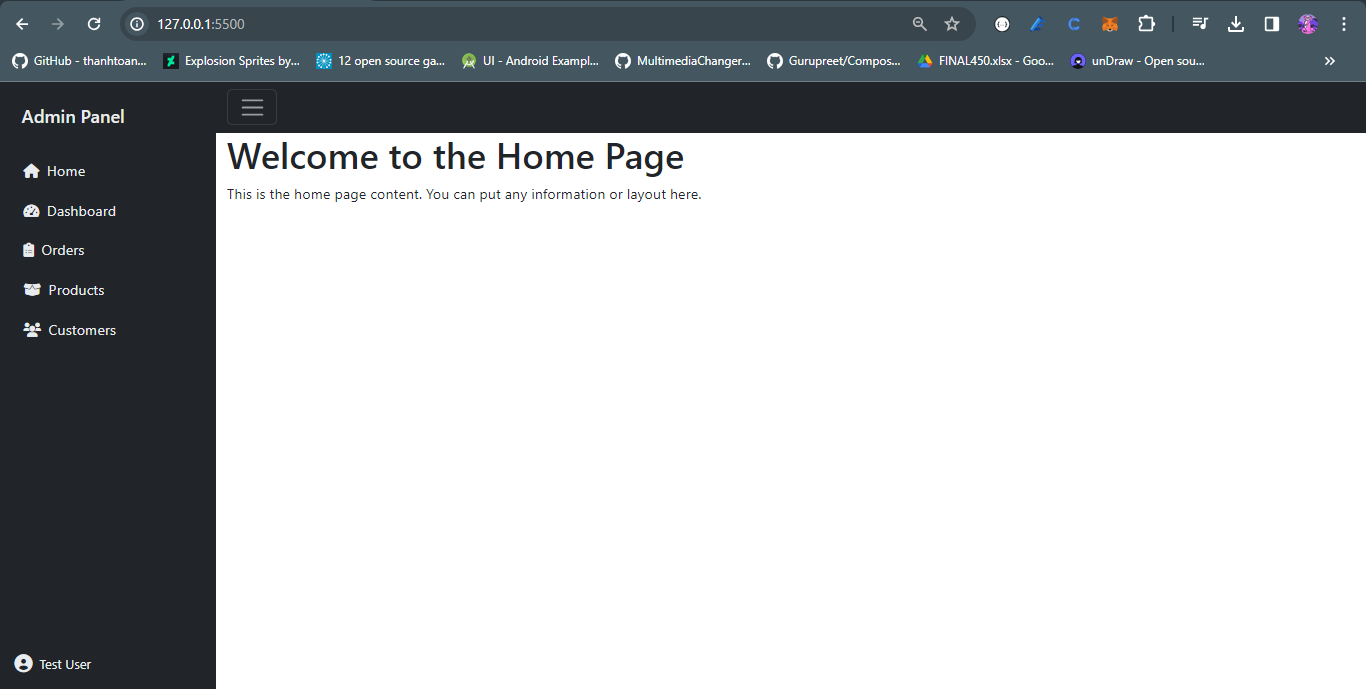
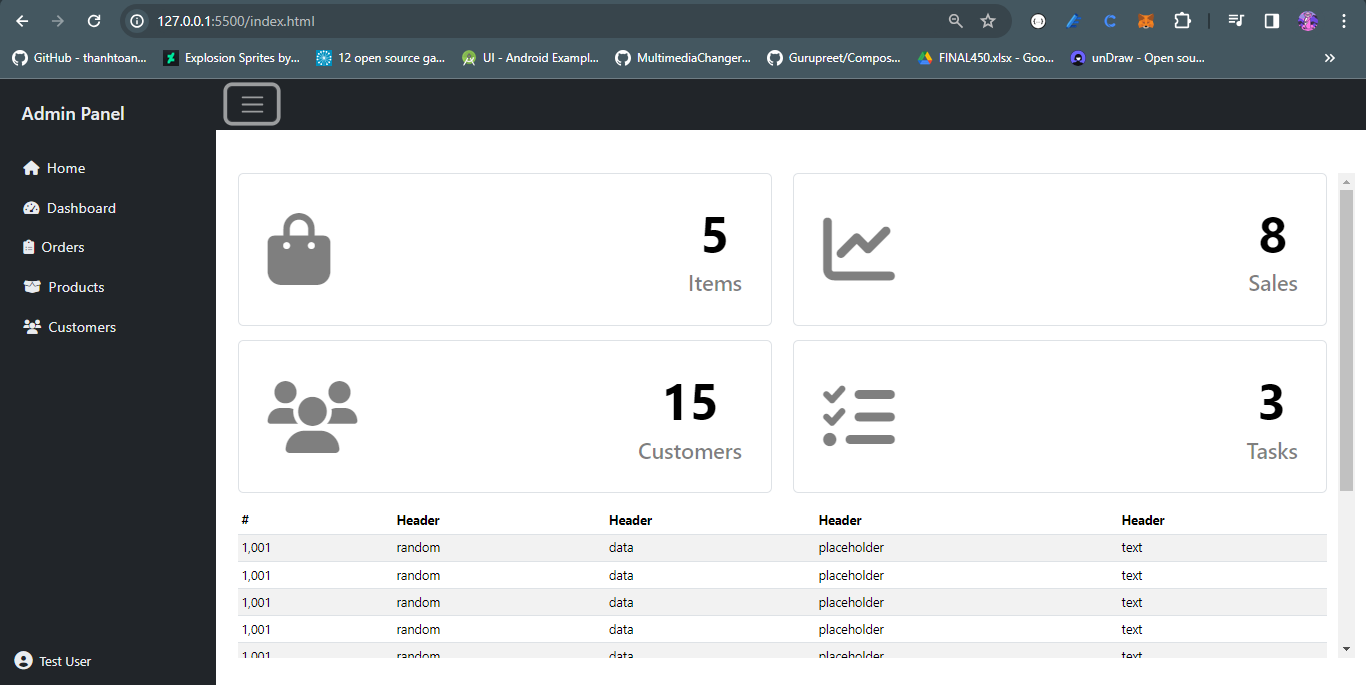
updated home page UI

diff --git a/home.html b/home.html
@@ -1,2 +1,170 @@
-<h1>Welcome to the Home Page</h1>
-<p>This is the home page content. You can put any information or layout here.</p>
+<div class="container mt-5"  style="overflow-y: scroll; height: 80vh;">
+    <div class="row">
+      <div class="col-md-6">
+        <div class="border rounded p-3 mb-3">
+          <div class="card-body p-3 pb-2 px-3 d-flex flex-row justify-content-between align-items-center custom-text-color">
+            <div>
+              <h1><i class="fas fa-shopping-bag fa-2x text-black-50"></i></h1>
+            </div>
+            <div class="text-center">
+              <h2 class="display-4 fw-bold text-black">5</h2>
+              <h4 class="text-black-50">Items</h4>
+            </div>
+          </div>
+        </div>
+      </div>
+      <div class="col-md-6">
+        <div class="border rounded p-3 mb-3">
+          <div class="card-body p-3 pb-2 px-3 d-flex flex-row justify-content-between align-items-center custom-text-color">
+            <div>
+              <h1><i class="fas fa-chart-line fa-2x text-black-50"></i></h1>
+            </div>
+            <div class="text-center">
+              <h2 class="display-4 fw-bold text-black">8</h2>
+              <h4 class="text-black-50">Sales</h4>
+            </div>
+          </div>
+        </div>
+      </div>
+      <div class="col-md-6">
+        <div class="border rounded p-3 mb-3">
+          <div class="card-body p-3 pb-2 px-3 d-flex flex-row justify-content-between align-items-center custom-text-color">
+            <div>
+              <h1><i class="fas fa-users fa-2x text-black-50"></i></h1>
+            </div>
+            <div class="text-center">
+              <h2 class="display-4 fw-bold text-black">15</h2>
+              <h4 class="text-black-50">Customers</h4>
+            </div>
+          </div>
+        </div>
+      </div>
+      <div class="col-md-6">
+        <div class="border rounded p-3 mb-3">
+          <div class="card-body p-3 pb-2 px-3 d-flex flex-row justify-content-between align-items-center custom-text-color">
+            <div>
+              <h1><i class="fas fa-tasks fa-2x text-black-50"></i></h1>
+            </div>
+            <div class="text-center">
+              <h2 class="display-4 fw-bold text-black">3</h2>
+              <h4 class="text-black-50">Tasks</h4>
+            </div>
+          </div>
+        </div>
+      </div>
+    </div>
+
+    <!-- Table -->
+    <div class="row">
+      <div class="col-md-12">
+        <div class="table-responsive small overflow-auto">
+          <table class="table table-striped table-sm">
+            <thead>
+              <tr>
+                <th scope="col">#</th>
+                <th scope="col">Header</th>
+                <th scope="col">Header</th>
+                <th scope="col">Header</th>
+                <th scope="col">Header</th>
+              </tr>
+            </thead>
+            <tbody>
+              <tr>
+                <td>1,001</td>
+                <td>random</td>
+                <td>data</td>
+                <td>placeholder</td>
+                <td>text</td>
+              </tr>
+         
+              <tr>
+                <td>1,001</td>
+                <td>random</td>
+                <td>data</td>
+                <td>placeholder</td>
+                <td>text</td>
+              </tr>
+              <tr>
+                <td>1,001</td>
+                <td>random</td>
+                <td>data</td>
+                <td>placeholder</td>
+                <td>text</td>
+              </tr>
+              <tr>
+                <td>1,001</td>
+                <td>random</td>
+                <td>data</td>
+                <td>placeholder</td>
+                <td>text</td>
+              </tr>
+              <tr>
+                <td>1,001</td>
+                <td>random</td>
+                <td>data</td>
+                <td>placeholder</td>
+                <td>text</td>
+              </tr>
+              <tr>
+                <td>1,001</td>
+                <td>random</td>
+                <td>data</td>
+                <td>placeholder</td>
+                <td>text</td>
+              </tr>
+              <tr>
+                <td>1,001</td>
+                <td>random</td>
+                <td>data</td>
+                <td>placeholder</td>
+                <td>text</td>
+              </tr>
+              <tr>
+                <td>1,001</td>
+                <td>random</td>
+                <td>data</td>
+                <td>placeholder</td>
+                <td>text</td>
+              </tr>
+              <tr>
+                <td>1,001</td>
+                <td>random</td>
+                <td>data</td>
+                <td>placeholder</td>
+                <td>text</td>
+              </tr>
+              <tr>
+                <td>1,001</td>
+                <td>random</td>
+                <td>data</td>
+                <td>placeholder</td>
+                <td>text</td>
+              </tr>
+              <tr>
+                <td>1,001</td>
+                <td>random</td>
+                <td>data</td>
+                <td>placeholder</td>
+                <td>text</td>
+              </tr>
+              <tr>
+                <td>1,001</td>
+                <td>random</td>
+                <td>data</td>
+                <td>placeholder</td>
+                <td>text</td>
+              </tr>
+              <tr>
+                <td>1,001</td>
+                <td>random</td>
+                <td>data</td>
+                <td>placeholder</td>
+                <td>text</td>
+              </tr>
+
+            </tbody>
+          </table>
+        </div>
+      </div>
+    </div>
+  </div>

diff --git a/index.html b/index.html
@@ -126,6 +126,22 @@
             margin-left: 0;
         }
     }
+
+    .table-striped tbody tr:nth-of-type(odd) {
+      background-color: rgba(0, 0, 0, 0.05);
+    }
+
+    .table-striped tbody tr:hover {
+      background-color: rgba(0, 0, 0, 0.075);
+    }
+
+    @media (max-width: 575.98px) {
+      .table-responsive.small {
+        overflow-x: auto;
+        display: block;
+        width: 100%;
+      }
+    }
   </style>
 </head>
 <body>
@@ -173,6 +189,7 @@
     </div>
     <div class="container-fluid" id="root">
    
+
     </div>
   </div>
 
